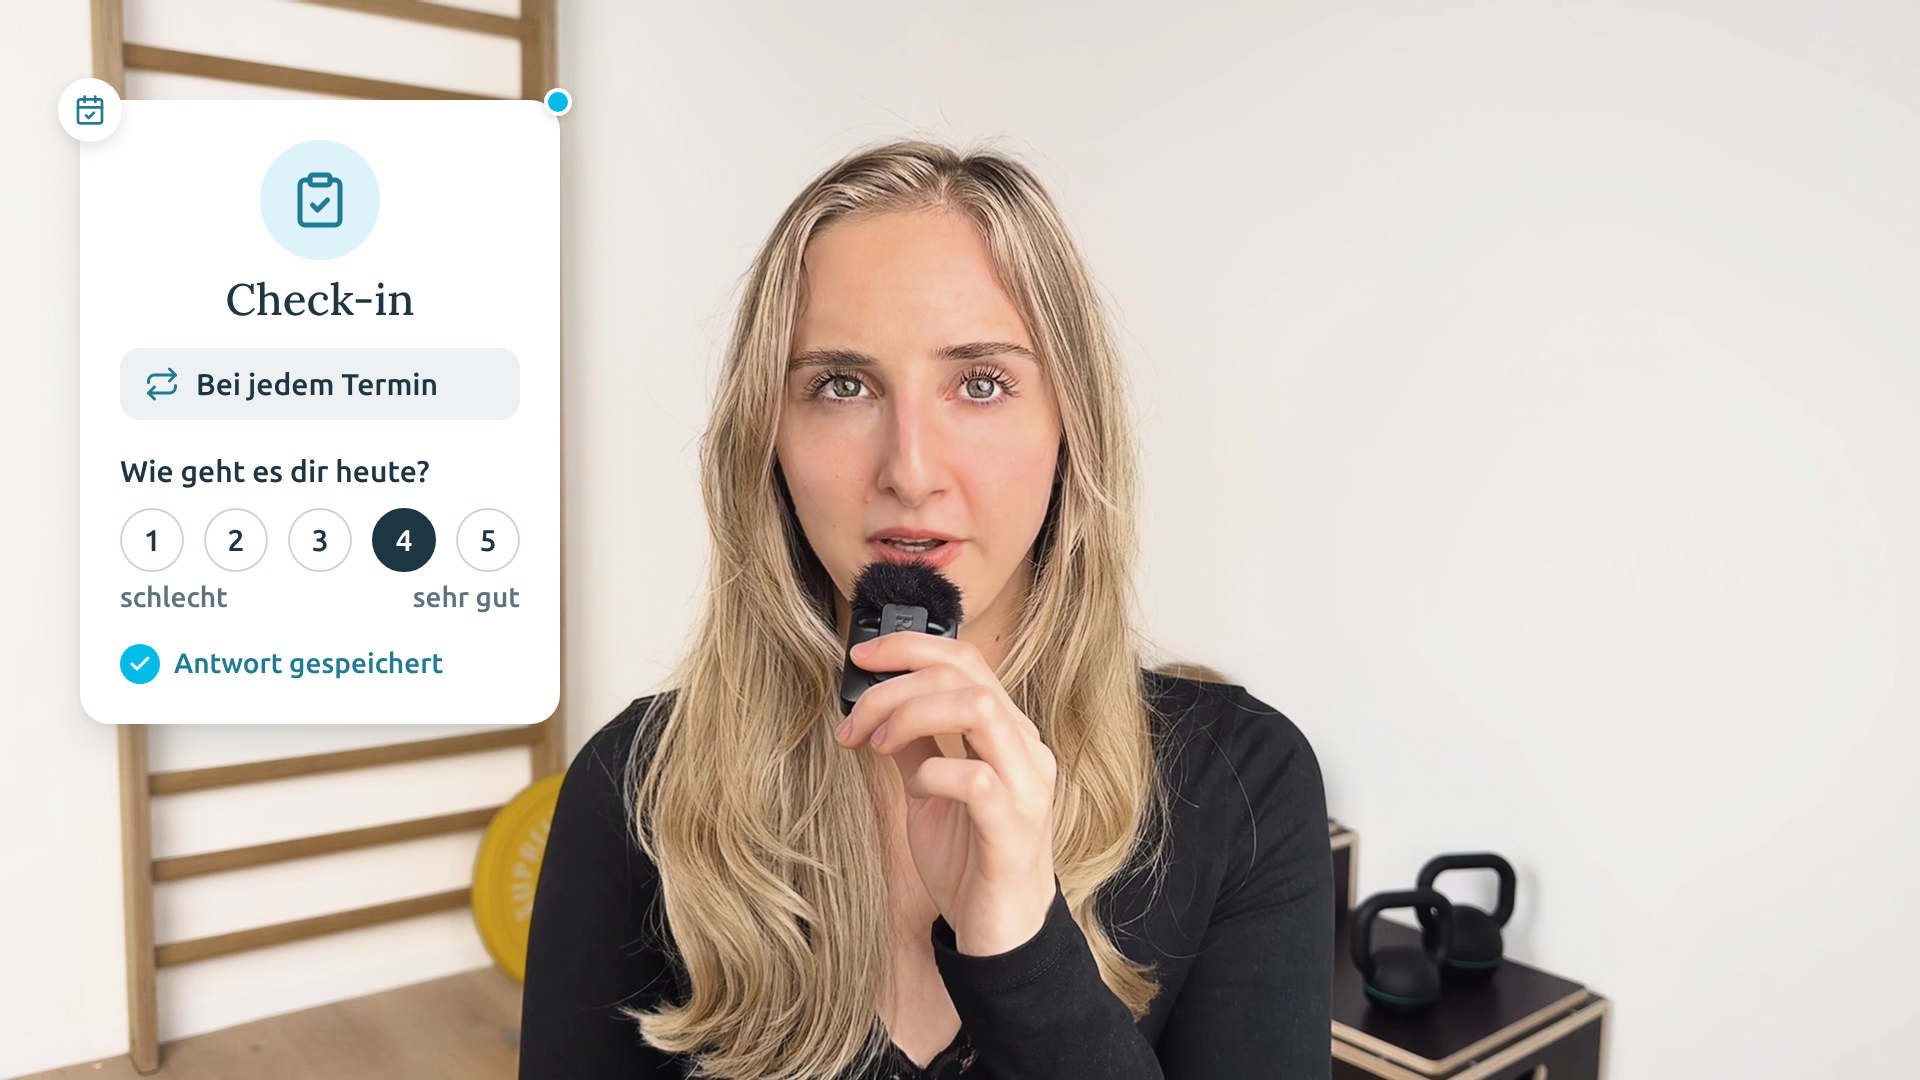
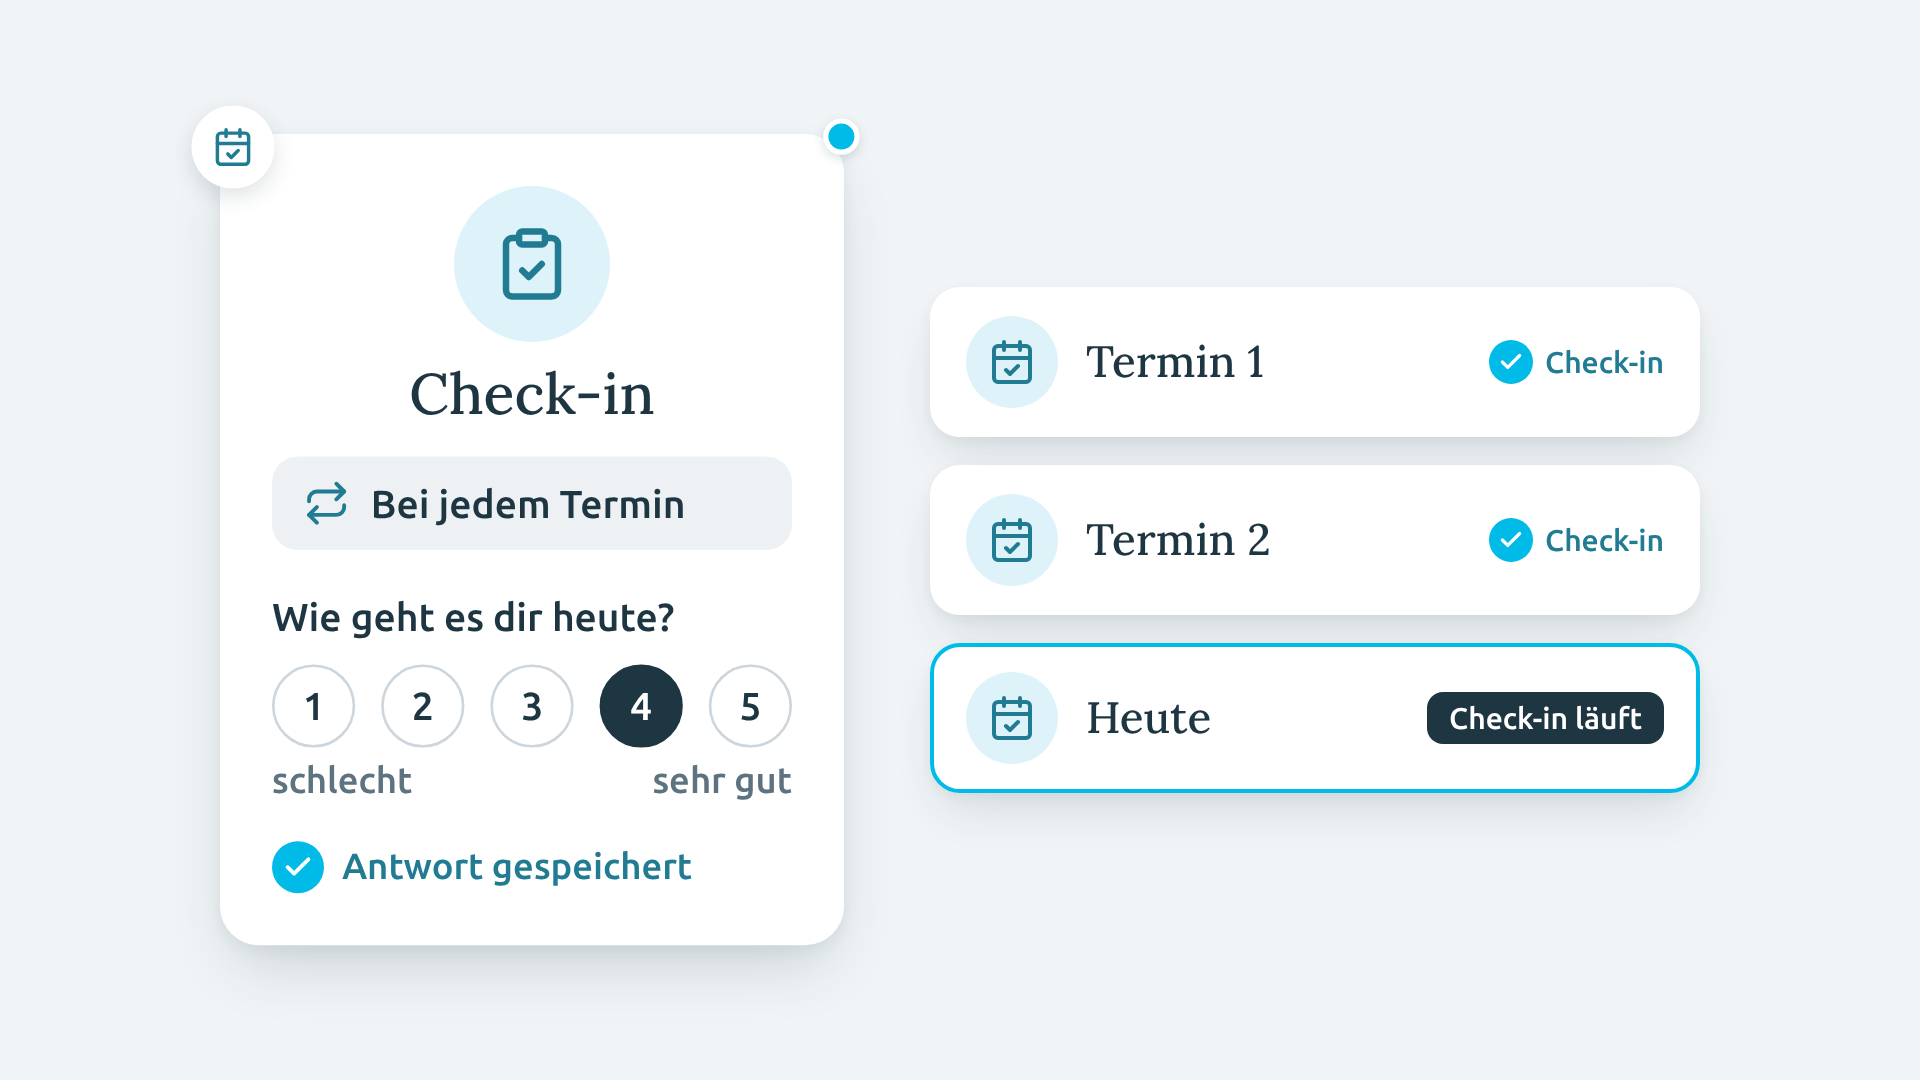
Teil 7 storyboard: frames 03 and 04 full-screen without the speaker
Claude-Session: https://claude.ai/code/session_01Caa9wzM8mepkB4JMXrF43j

diff --git a/videos/patientenaufnahme-teil-7/compositions/checkin.html b/videos/patientenaufnahme-teil-7/compositions/checkin.html
@@ -17,10 +17,25 @@
       --c-teal: var(--teal, #217c93);
       --c-accent: var(--accent, #00bae7);
     }
+    #ci-ground {
+      position: absolute;
+      inset: 0;
+      background: var(--ground, #f0f4f6);
+    }
+    /* Full-screen layout: the card keeps its 480 px design and is scaled 1.3x by its stage. */
+    #ci-stage {
+      position: absolute;
+      left: 220px;
+      top: 134px;
+      width: 480px;
+      height: 624px;
+      transform: scale(1.3);
+      transform-origin: 0 0;
+    }
     #ci-card {
       position: absolute;
-      left: 80px;
-      top: 100px;
+      left: 0;
+      top: 0;
       width: 480px;
       height: 624px;
       background: #fff;
@@ -167,6 +182,83 @@
       align-items: center;
       justify-content: center;
     }
+    #ci-dates {
+      position: absolute;
+      left: 930px;
+      top: 287px;
+      width: 770px;
+    }
+    .ci-date {
+      position: relative;
+      height: 150px;
+      margin-bottom: 28px;
+      border-radius: 30px;
+      background: #fff;
+      box-shadow:
+        0 24px 48px -12px rgba(30, 53, 66, 0.14),
+        0 4px 12px rgba(30, 53, 66, 0.05);
+      display: flex;
+      align-items: center;
+      gap: 28px;
+      padding: 0 36px;
+    }
+    .ci-date.now {
+      outline: 4px solid var(--c-accent);
+      outline-offset: -4px;
+    }
+    .ci-date-icon {
+      width: 92px;
+      height: 92px;
+      border-radius: 50%;
+      background: var(--icon-bg, #ddf2f9);
+      display: flex;
+      align-items: center;
+      justify-content: center;
+      flex: none;
+    }
+    .ci-date-name {
+      flex: 1;
+      font-family: "Lora", serif;
+      font-weight: 500;
+      font-size: 44px;
+      color: var(--c-ink);
+    }
+    .ci-date-status {
+      display: flex;
+      align-items: center;
+      gap: 12px;
+      font-family: "Ubuntu", sans-serif;
+      font-weight: 500;
+      font-size: 30px;
+      color: var(--c-teal);
+    }
+    .ci-date-status .tick {
+      width: 44px;
+      height: 44px;
+      border-radius: 50%;
+      background: var(--c-accent);
+      display: flex;
+      align-items: center;
+      justify-content: center;
+    }
+    .ci-date-status .tick path {
+      fill: none;
+      stroke: #fff;
+      stroke-width: 3;
+      stroke-linecap: round;
+      stroke-linejoin: round;
+    }
+    .ci-now-pill {
+      height: 52px;
+      padding: 0 22px;
+      border-radius: 16px;
+      background: var(--c-ink);
+      color: #fff;
+      font-family: "Ubuntu", sans-serif;
+      font-weight: 500;
+      font-size: 30px;
+      line-height: 52px;
+    }
     #ci-check path {
       fill: none;
       stroke: #fff;
@@ -187,6 +279,8 @@
       {"id":"ci_question","type":"string","label":"Frage","default":"Wie geht es dir heute?"}
     ]'
   >
+    <div id="ci-ground"></div>
+    <div id="ci-stage">
     <div id="ci-card">
       <div id="ci-badge">
         <svg width="32" height="32" viewBox="0 0 24 24" class="ci-stroke">
@@ -225,13 +319,35 @@
         <span>Antwort gespeichert</span>
       </div>
     </div>
+    </div>
+
+    <!-- "bei jedem Termin": every appointment gets its check-in -->
+    <div id="ci-dates">
+      <div class="ci-date">
+        <div class="ci-date-icon"><svg width="48" height="48" viewBox="0 0 24 24" class="ci-stroke"><path d="M8 2v4" /><path d="M16 2v4" /><rect width="18" height="18" x="3" y="4" rx="2" /><path d="M3 10h18" /><path d="m9 16 2 2 4-4" /></svg></div>
+        <div class="ci-date-name">Termin 1</div>
+        <div class="ci-date-status"><div class="tick"><svg width="26" height="26" viewBox="0 0 24 24"><path d="M20 6 9 17l-5-5" /></svg></div><span>Check-in</span></div>
+      </div>
+      <div class="ci-date">
+        <div class="ci-date-icon"><svg width="48" height="48" viewBox="0 0 24 24" class="ci-stroke"><path d="M8 2v4" /><path d="M16 2v4" /><rect width="18" height="18" x="3" y="4" rx="2" /><path d="M3 10h18" /><path d="m9 16 2 2 4-4" /></svg></div>
+        <div class="ci-date-name">Termin 2</div>
+        <div class="ci-date-status"><div class="tick"><svg width="26" height="26" viewBox="0 0 24 24"><path d="M20 6 9 17l-5-5" /></svg></div><span>Check-in</span></div>
+      </div>
+      <div class="ci-date now">
+        <div class="ci-date-icon"><svg width="48" height="48" viewBox="0 0 24 24" class="ci-stroke"><path d="M8 2v4" /><path d="M16 2v4" /><rect width="18" height="18" x="3" y="4" rx="2" /><path d="M3 10h18" /><path d="m9 16 2 2 4-4" /></svg></div>
+        <div class="ci-date-name">Heute</div>
+        <div class="ci-now-pill">Check-in läuft</div>
+      </div>
+    </div>
   </div>
 
   <script>
     (function () {
-      // Storyboard pose (shot 03, held). Local clock: 0 = 7.25 s in the film.
+      // Storyboard pose. Local clock: 0 = 7.25 s in the film.
+      // Shot 03: check-in card + appointments. Shot 04 (from 10.1 s): the appointments make room for feedback.
       const tl = gsap.timeline({ paused: true });
       tl.set("#ci-card", { opacity: 1 }, 0);
+      tl.set("#ci-dates", { opacity: 0 }, 2.85);
       window.__timelines["checkin"] = tl;
     })();
   </script>

diff --git a/videos/patientenaufnahme-teil-7/boards/storyboard.html b/videos/patientenaufnahme-teil-7/boards/storyboard.html
@@ -126,6 +126,7 @@
           <span>13,6 s</span>
           <span>nur O-Ton, keine Musik/SFX</span>
           <span>Look wie Teil 1 und finales Video</span>
+          <span>ab 0,85 s komplett Vollbild</span>
         </div>
       </header>
 
@@ -157,7 +158,7 @@
         </div>
       </div>
 
-      <section class="act">Akt 2: Die Beispiele neben Benaja</section>
+      <section class="act">Akt 2: Die Beispiele (Vollbild, ohne Benaja)</section>
       <div class="grid">
         <div class="frame">
           <img src="stills/frame-02-at-9.7s.png" alt="" />
@@ -165,8 +166,9 @@
             <div class="title">03: Check-in bei jedem Termin</div>
             <div class="time">7,25 bis 10,1 s</div>
             <p class="words">
-              Harter Schnitt zurück zu Benaja. Links baut sich die Karte „Check-in“ auf: Chip „Bei jedem Termin“, dann die
-              Frage „Wie geht es dir heute?“. Bei „Wohlbefinden“ wird die 4 gewählt, „Antwort gespeichert“.
+              Kein Schnitt zurück zu Benaja: Der Konfigurator tritt zurück, auf demselben hellen Grund landet links die
+              Karte „Check-in“. Rechts reihen sich die Termine auf, jeder mit seinem Check-in, „Heute“ läuft gerade.
+              Bei „Wohlbefinden“ wird die 4 gewählt, „Antwort gespeichert“.
             </p>
             <p class="vo">„… um bei jedem Termin das Wohlbefinden abzufragen, …“</p>
           </div>
@@ -177,8 +179,9 @@
             <div class="title">04: Feedback einsammeln</div>
             <div class="time">10,1 bis 13,6 s</div>
             <p class="words">
-              Rechts kommt die Karte „Feedback · Patientenzufriedenheit“ dazu. Die Sterne füllen sich, bei „einsammeln“
-              stapeln sich die Antworten und der Zähler zählt mit. Die Check-in-Karte bleibt links stehen.
+              Die Termine machen Platz, rechts landet die Karte „Feedback · Patientenzufriedenheit“. Die Sterne füllen
+              sich, bei „einsammeln“ stapeln sich die Antworten und der Zähler zählt mit. Die Check-in-Karte bleibt
+              links stehen. Benaja ist ab 0,85 s erst im nächsten Teil wieder im Bild.
             </p>
             <p class="vo">„… oder allgemeines Feedback zur Patientenzufriedenheit einsammeln.“</p>
           </div>

diff --git a/videos/patientenaufnahme-teil-7/compositions/feedback.html b/videos/patientenaufnahme-teil-7/compositions/feedback.html
@@ -17,12 +17,22 @@
       --c-teal: var(--teal, #217c93);
       --c-accent: var(--accent, #00bae7);
     }
+    /* Full-screen layout: the card keeps its 600 px design and is scaled 1.3x by its stage. */
+    #fb-stage {
+      position: absolute;
+      left: 920px;
+      top: 176px;
+      width: 600px;
+      height: 560px;
+      transform: scale(1.3);
+      transform-origin: 0 0;
+    }
     #fb-card {
       position: absolute;
-      left: 1260px;
-      top: 100px;
+      left: 0;
+      top: 0;
       width: 600px;
-      height: 540px;
+      height: 560px;
       background: #fff;
       border-radius: 30px;
       box-shadow:
@@ -147,6 +157,7 @@
     <svg width="0" height="0" style="position: absolute">
       <defs><path id="fb-star-path" d="M11.525 2.295a.53.53 0 0 1 .95 0l2.31 4.679a2.123 2.123 0 0 0 1.595 1.16l5.166.756a.53.53 0 0 1 .294.904l-3.736 3.638a2.123 2.123 0 0 0-.611 1.878l.882 5.14a.53.53 0 0 1-.771.56l-4.618-2.428a2.122 2.122 0 0 0-1.973 0L6.396 21.01a.53.53 0 0 1-.77-.56l.881-5.139a2.122 2.122 0 0 0-.611-1.879L2.16 9.795a.53.53 0 0 1 .294-.906l5.165-.755a2.122 2.122 0 0 0 1.597-1.16z" /></defs>
     </svg>
+    <div id="fb-stage">
     <div id="fb-card">
       <div id="fb-icon">
         <svg width="60" height="60" viewBox="0 0 24 24" class="fb-stroke">
@@ -181,6 +192,7 @@
         <svg class="mini" width="110" height="22" viewBox="0 0 120 24"><use href="#fb-star-path" /><use href="#fb-star-path" x="24" /><use href="#fb-star-path" x="48" /><use href="#fb-star-path" x="72" /><use href="#fb-star-path" x="96" /></svg>
         <div class="fb-line" style="width: 250px"></div>
       </div>
+    </div>
     </div>
   </div>
 

diff --git a/videos/patientenaufnahme-teil-7/SPEC.md b/videos/patientenaufnahme-teil-7/SPEC.md
@@ -1,6 +1,7 @@
 # SPEC – Patientenaufnahme, Teil 7 (Konfigurator)
 
 GOAL:    Die Praxis sieht: Mit dem Physiofit-Konfigurator baut man eigene Formulare, z. B. Check-in und Feedback.
+         Ab 0,85 s komplett Vollbild; Benaja ist in diesem Teil nur am Anfang zu sehen (Wunsch).
 OUTPUT:  HyperFrames, 1920 x 1080, 30 fps. Ohne Musik und Soundeffekte, nur der O-Ton.
 TIME:    13,56 s x 30 = 407 Frames. Takt = O-Ton (`transcript.json`).
 
@@ -23,10 +24,10 @@ SHOTS:
              Textfeld (1,6) · Auswahl (2,4) · Skala (3,2) in ein leeres Formular („ganz individuelle Formulare“).
   4,3–7,25   gleiches Bild baut sich um: Titel wird „Check-in“ (5,85), Felder bekommen echte Fragen,
              Klick auf Speichern → „Gespeichert“ (6,96 „erstellen“).
-  7,25–10,1  `checkin`  Harter Schnitt zurück: Karte links „Check-in“, Chip „Bei jedem Termin“ (8,0),
-             Frage „Wie geht es dir heute?“, Wert wird gewählt (8,72 „Wohlbefinden“).
-  10,1–13,56 `feedback` Karte rechts „Feedback“ · „Patientenzufriedenheit“ (11,84): 5 Sterne füllen sich,
-             Antworten stapeln sich, Zähler zählt mit (12,96 „einsammeln“). Check-in-Karte bleibt links.
+  7,25–10,1  `checkin`  Vollbild, ohne Benaja (Wunsch): Der Konfigurator tritt zurück, Karte „Check-in“ (1,3×) links,
+             rechts die Termine mit Check-in, „Heute“ läuft (8,0 „bei jedem Termin“), Wert gewählt (8,72 „Wohlbefinden“).
+  10,1–13,56 `feedback` Vollbild: Die Termine machen Platz, rechts „Feedback“ · „Patientenzufriedenheit“ (1,3×, 11,84):
+             Sterne füllen sich, Antworten stapeln sich, Zähler zählt mit (12,96 „einsammeln“). Check-in bleibt links.
 BANNED:  dunkler Grund, Glow, Partikel, Glas, Verläufe außer dem Button-Verlauf der Referenz, Klick-Ringe,
          schwebende Loops, Logo in der Ecke, erfundene Kennzahlen (Durchschnittsnoten, Prozent).
 QA:      0,5 · 3,9 · 6,9 · 9,7 · 13,3

diff --git a/videos/patientenaufnahme-teil-7/STORYBOARD.md b/videos/patientenaufnahme-teil-7/STORYBOARD.md
@@ -34,24 +34,24 @@ audience: Physiotherapie-Praxen
 
 ## Frame 3: Check-in bei jedem Termin (7.25-10.1s)
 
-- act: Akt 2: Die Beispiele neben Benaja
+- act: Akt 2: Die Beispiele (Vollbild, ohne Benaja)
 - status: built
 - src: compositions/checkin.html
 - poster: 9.7
-- transition_in: cut
-- scene: Zurück zu Benaja, links die Karte „Check-in“ mit „Bei jedem Termin“ und der Frage „Wie geht es dir heute?“.
+- transition_in: none (gleicher Grund; der Konfigurator tritt zurück, die Karte landet)
+- scene: Vollbild ohne Benaja: links die Karte „Check-in“, rechts die Termine, jeder mit Check-in, „Heute“ läuft.
 - voiceover: "… um bei jedem Termin das Wohlbefinden abzufragen, …"
-- reads: Karte „Check-in“ (7.25-8.0s); „Bei jedem Termin“ (8.0-8.7s); Frage und gewählte 4 (8.72-9.5s); „Antwort gespeichert“ (9.52-10.1s)
+- reads: Karte „Check-in“ (7.25-8.0s); „Bei jedem Termin“ und die Termin-Liste (8.0-8.7s); Frage und gewählte 4 (8.72-9.5s); „Antwort gespeichert“ (9.52-10.1s)
 - sound: nur O-Ton
 
 ## Frame 4: Feedback einsammeln (10.1-13.56s)
 
-- act: Akt 2: Die Beispiele neben Benaja
+- act: Akt 2: Die Beispiele (Vollbild, ohne Benaja)
 - status: built
 - src: compositions/feedback.html
 - poster: 13.3
-- transition_in: none (Karte kommt rechts dazu)
-- scene: Rechts die Karte „Feedback · Patientenzufriedenheit“, Sterne füllen sich, Antworten stapeln sich mit Zähler.
+- transition_in: none (die Termine machen Platz)
+- scene: Vollbild: rechts landet „Feedback · Patientenzufriedenheit“, Sterne füllen sich, Antworten stapeln sich mit Zähler.
 - voiceover: "… oder allgemeines Feedback zur Patientenzufriedenheit einsammeln."
 - reads: Karte „Feedback“ (10.1-11.1s); „Patientenzufriedenheit“ und Sterne (11.84-12.9s); Antworten 1 → 3 (12.96-13.56s)
 - sound: nur O-Ton
